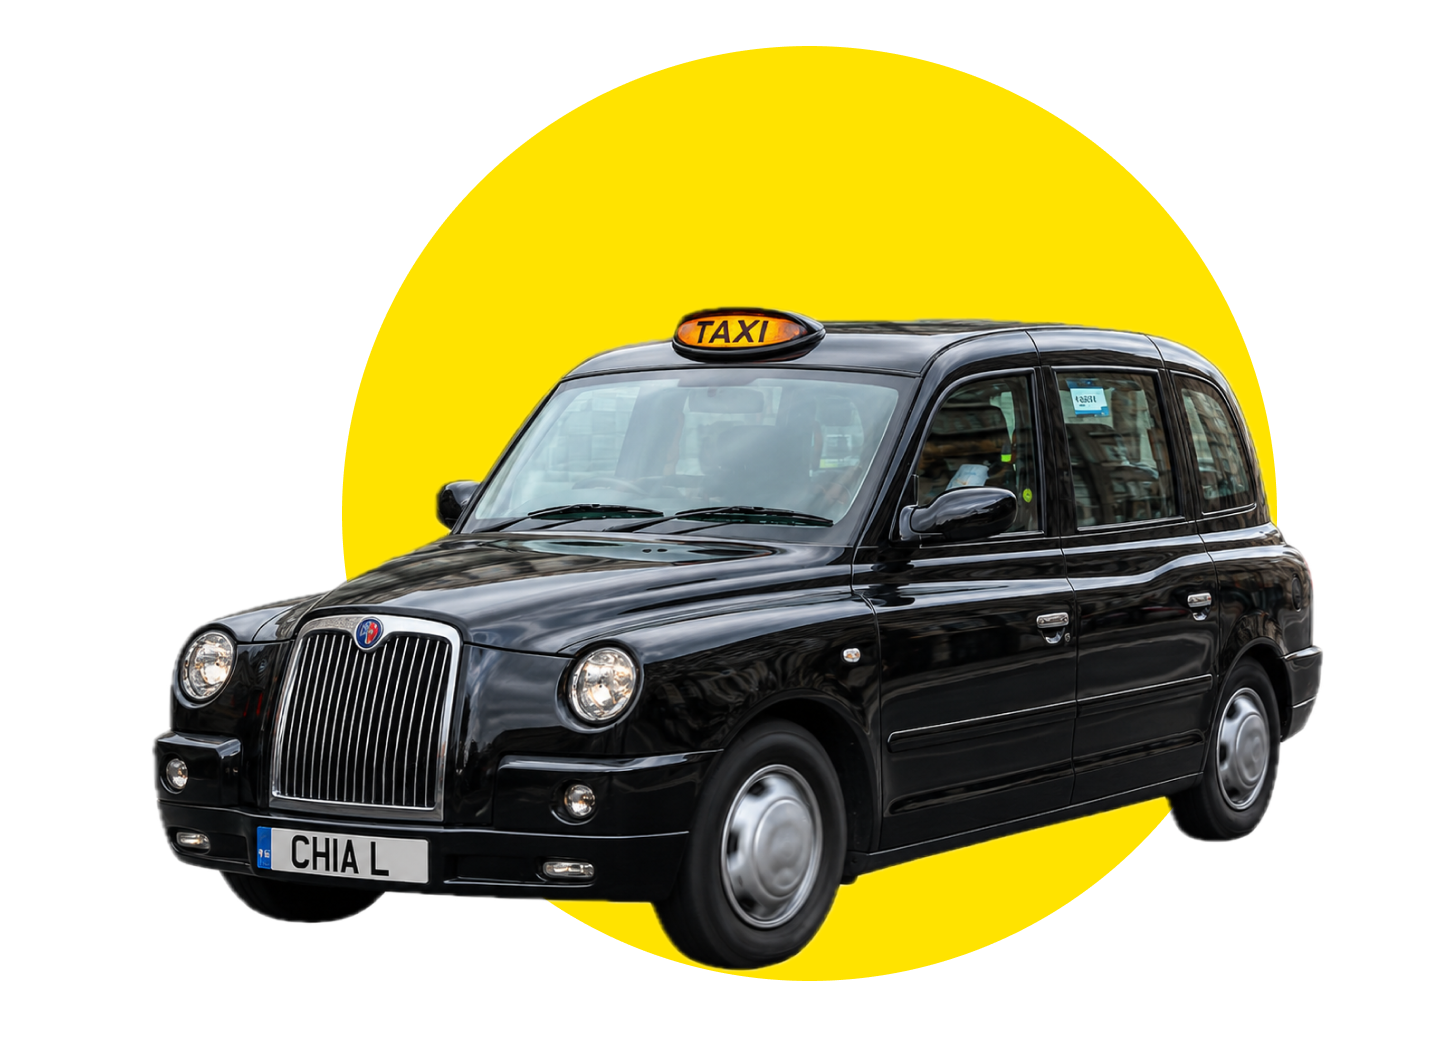
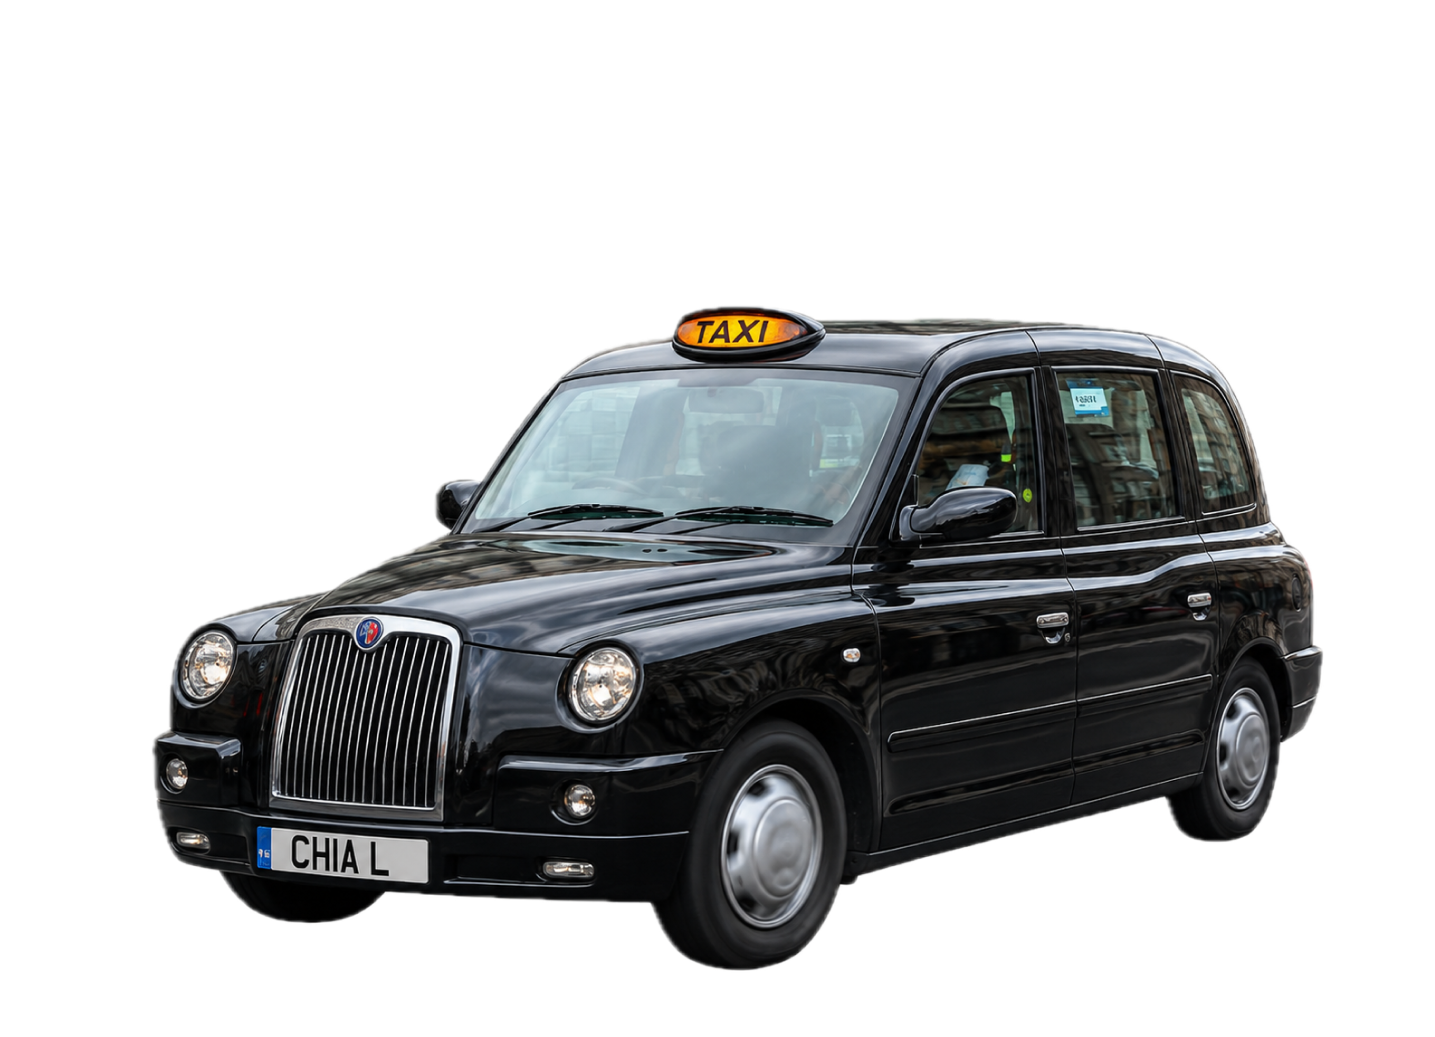
Add driver app transition and hover effect

Changed region(s): [[0.2146, 0.0309, 0.8892, 0.5554], [0.3679, 0.7715, 0.8279, 0.9566]]

diff --git a/assets/js/index.js b/assets/js/index.js
@@ -80,3 +80,105 @@ if (!window.matchMedia('(prefers-reduced-motion: reduce)').matches) {
     }, { passive: true });
   })();
 }
+
+// ── PAGE TRANSITION: card → case study ──
+// Cards with a CSS .thumb-shape play an exit animation before navigating:
+// the cover image drives off to the left while the shape grows from its
+// centre to fill the screen. The case study page picks up from the flag
+// in sessionStorage (see the inline script in its <head>) and fades in.
+(function () {
+  const reduceMotion = window.matchMedia('(prefers-reduced-motion: reduce)');
+  const cards = document.querySelectorAll('.work-card');
+  let layer = null;
+  let running = false;
+
+  cards.forEach((card) => {
+    const shape = card.querySelector('.thumb-shape');
+    const img = shape && shape.nextElementSibling;
+    if (!img) return;
+
+    // Warm the cache on intent so the case study is ready when the animation ends
+    const prefetch = () => {
+      if (card.dataset.prefetched) return;
+      card.dataset.prefetched = '1';
+      const link = document.createElement('link');
+      link.rel = 'prefetch';
+      link.href = card.href;
+      document.head.appendChild(link);
+    };
+    card.addEventListener('pointerenter', prefetch, { once: true });
+    card.addEventListener('focus', prefetch, { once: true });
+
+    card.addEventListener('click', (e) => {
+      if (e.button !== 0 || e.metaKey || e.ctrlKey || e.shiftKey || e.altKey) return;
+      if (reduceMotion.matches || running || !Element.prototype.animate) return;
+      e.preventDefault();
+      play(card, shape, img);
+    });
+  });
+
+  function play(card, shape, img) {
+    running = true;
+    const vw = window.innerWidth;
+    const vh = window.innerHeight;
+    const s = shape.getBoundingClientRect();
+    const i = img.getBoundingClientRect();
+    const color = getComputedStyle(shape).backgroundColor;
+
+    // Fixed layer above everything, holding clones at their on-screen positions
+    layer = document.createElement('div');
+    layer.className = 'pt-layer';
+    layer.setAttribute('aria-hidden', 'true');
+
+    const circle = document.createElement('div');
+    circle.className = 'pt-circle';
+    Object.assign(circle.style, {
+      left: s.left + 'px', top: s.top + 'px',
+      width: s.width + 'px', height: s.height + 'px',
+      background: color,
+    });
+
+    const car = img.cloneNode();
+    car.removeAttribute('loading');
+    car.className = 'pt-car';
+    Object.assign(car.style, {
+      left: i.left + 'px', top: i.top + 'px',
+      width: i.width + 'px', height: i.height + 'px',
+    });
+
+    layer.append(circle, car);
+    document.body.appendChild(layer);
+    card.classList.add('pt-source');
+
+    // Scale needed for the circle (centre fixed) to reach the farthest viewport corner
+    const cx = s.left + s.width / 2;
+    const cy = s.top + s.height / 2;
+    const reach = Math.hypot(Math.max(cx, vw - cx), Math.max(cy, vh - cy));
+    const scale = (reach / (s.width / 2)) * 1.02;
+
+    const drive = car.animate(
+      [{ transform: 'translateX(0)' }, { transform: `translateX(${-(i.right + 40)}px)` }],
+      { duration: 700, easing: 'cubic-bezier(0.55, 0, 0.8, 0.2)', fill: 'forwards' }
+    );
+    const grow = circle.animate(
+      [{ transform: 'scale(1)' }, { transform: `scale(${scale})` }],
+      { duration: 800, delay: 150, easing: 'cubic-bezier(0.65, 0, 0.35, 1)', fill: 'forwards' }
+    );
+
+    Promise.all([drive.finished, grow.finished]).then(() => {
+      try {
+        sessionStorage.setItem('pt-enter', JSON.stringify({ color, t: Date.now() }));
+      } catch (_) { /* storage blocked: case study just loads normally */ }
+      window.location.href = card.href;
+    });
+  }
+
+  // Back button restores this page from bfcache mid-transition — reset it
+  window.addEventListener('pageshow', (e) => {
+    if (!e.persisted || !layer) return;
+    layer.remove();
+    layer = null;
+    running = false;
+    document.querySelectorAll('.pt-source').forEach((c) => c.classList.remove('pt-source'));
+  });
+})();

diff --git a/assets/css/index.css b/assets/css/index.css
@@ -447,6 +447,56 @@ nav.site-nav.scrolled {
   height: auto;
   display: block;
 }
+
+/* thumb-shape: coloured backdrop shape drawn in CSS behind a transparent cutout.
+   Position/size are % of the thumb box (= the image box), measured from the
+   source artwork, so the shape scales with the card. Set per project below. */
+.thumb-shape {
+  position: absolute;
+  left: var(--shape-x);
+  top: var(--shape-y);
+  width: var(--shape-w);
+  aspect-ratio: 1;
+  border-radius: var(--shape-radius, 50%);
+  background: var(--shape-color);
+  pointer-events: none;
+}
+.thumb-shape + img { position: relative; z-index: 1; }
+
+/* driver-cover.png 1435×1037: circle Ø935 at (342, 46) */
+.thumb--driver {
+  --shape-color: var(--yellow); /* matches driver-app case study */
+  --shape-x: 23.83%;
+  --shape-y: 4.44%;
+  --shape-w: 65.16%;
+}
+/* Hover: car edges forward (left) as if about to pull away.
+   The click transition clones the car from its hovered position, so it
+   continues seamlessly into the drive-off. */
+@media (hover: hover) and (prefers-reduced-motion: no-preference) {
+  .thumb--driver img { transition: transform 0.5s cubic-bezier(0.33, 1, 0.68, 1); }
+  .work-card:hover .thumb--driver img { transform: translateX(-5%); }
+}
+
+/* Page transition layer (built by index.js on card click) */
+.pt-layer {
+  position: fixed;
+  inset: 0;
+  z-index: 10000;
+  pointer-events: none;
+  overflow: hidden;
+}
+.pt-circle,
+.pt-car {
+  position: absolute;
+  will-change: transform;
+}
+.pt-circle { border-radius: 50%; }
+.pt-car { border-radius: 0; }
+/* Hide the originals while their clones animate */
+.pt-source .thumb-shape,
+.pt-source .thumb-shape + img { visibility: hidden; }
+
 .work-card.overflow-img .title,
 .work-card.overflow-img .desc,
 .work-card.overflow-img .meta {

diff --git a/assets/css/case-study.css b/assets/css/case-study.css
@@ -13,6 +13,31 @@ img, video { width: 100%; display: block; }
 
 
 /* ══════════════════════════════════════════════
+   PAGE TRANSITION — ENTER
+   Arriving from a homepage card: the screen starts
+   filled with the card's shape colour, which fades
+   out to reveal the hero. Class set by inline <head> script.
+   ══════════════════════════════════════════════ */
+
+html.pt-enter { background: var(--pt-color, var(--yellow)); }
+html.pt-enter body::after {
+  content: '';
+  position: fixed;
+  inset: 0;
+  z-index: 10000;
+  background: var(--pt-color, var(--yellow));
+  pointer-events: none;
+  animation: pt-reveal 600ms cubic-bezier(0.4, 0, 0.2, 1) 100ms forwards;
+}
+@keyframes pt-reveal {
+  to { opacity: 0; visibility: hidden; }
+}
+@media (prefers-reduced-motion: reduce) {
+  html.pt-enter body::after { animation-duration: 1ms; animation-delay: 0s; }
+}
+
+
+/* ══════════════════════════════════════════════
    HERO
    ══════════════════════════════════════════════ */
 

diff --git a/work/driver-app/index.html b/work/driver-app/index.html
@@ -6,6 +6,24 @@
 <title>Driver App Redesign — Yun-Chia Lin</title>
 <meta name="description" content="End-to-end redesign of a private hire driver app for 5,000+ professional drivers. UX research, strategy, and interaction design.">
 
+<script>
+  // Page transition: arriving from a homepage card animation → start on the
+  // shape colour and fade in (see .pt-enter in case-study.css). Runs before
+  // first paint so there is no flash of the page underneath.
+  (function () {
+    try {
+      var d = JSON.parse(sessionStorage.getItem('pt-enter'));
+      sessionStorage.removeItem('pt-enter');
+      if (!d || Date.now() - d.t > 5000) return;
+      var root = document.documentElement;
+      root.style.setProperty('--pt-color', d.color);
+      root.classList.add('pt-enter');
+      document.addEventListener('animationend', function (e) {
+        if (e.animationName === 'pt-reveal') root.classList.remove('pt-enter');
+      });
+    } catch (_) {}
+  })();
+</script>
 <link rel="preconnect" href="https://fonts.googleapis.com">
 <link href="https://fonts.googleapis.com/css2?family=Playfair+Display:ital,wght@0,400;0,700;1,400&family=DM+Sans:wght@300;400;500&display=swap" rel="stylesheet">
 <link rel="stylesheet" href="../../assets/css/style.css">

diff --git a/index.html b/index.html
@@ -88,7 +88,10 @@
 
       <!-- 02 — Driver App -->
       <a class="work-card overflow-img reveal" data-delay="1" href="work/driver-app/index.html" aria-label="Driver App Redesign — Mobile Transport case study">
-        <div class="thumb"><img src="assets/images/home/driver-cover.png" alt="Driver App Redesign preview" loading="lazy"></div>
+        <div class="thumb thumb--driver">
+          <span class="thumb-shape" aria-hidden="true"></span>
+          <img src="assets/images/home/driver-cover.png" alt="Driver App Redesign preview" loading="lazy">
+        </div>
         <h3 class="title">Driver App Redesign</h3>
         <p class="desc">Redesigning the driver experience for one of London’s largest private hire fleets, built around B2B operations</p>
         <div class="meta">
